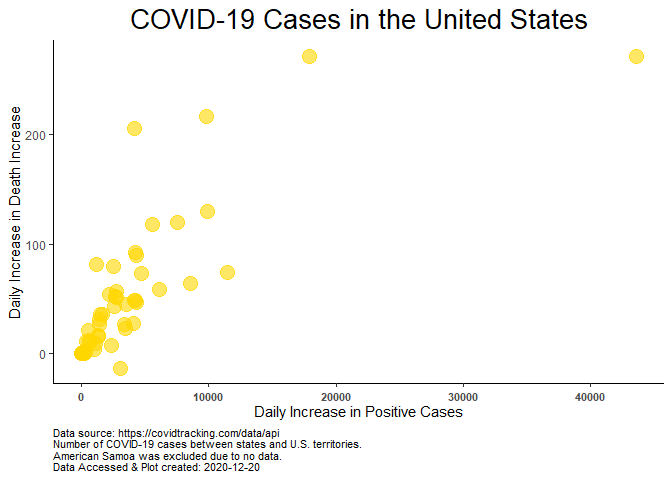
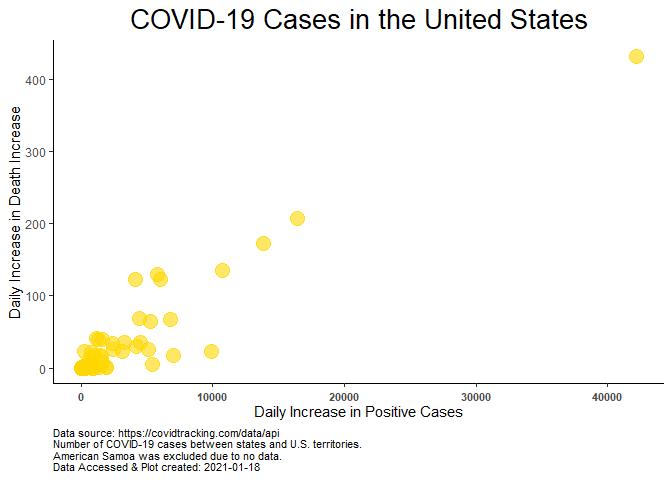
Updated

diff --git a/R/README.md b/R/README.md
@@ -18,57 +18,57 @@ head(data)
 ```
 
     ##       date state positive probableCases negative pending totalTestResultsSource
-    ## 1 20201219    AK    42235            NA  1150883      NA        totalTestsViral
-    ## 2 20201219    AL   319904         59403  1514927      NA  totalTestsPeopleViral
-    ## 3 20201219    AR   200114         30827  1757984      NA        totalTestsViral
-    ## 4 20201219    AS        0            NA     2140      NA        totalTestsViral
-    ## 5 20201219    AZ   448231         18672  2196578      NA        totalTestsViral
-    ## 6 20201219    CA  1807982            NA 27304267      NA        totalTestsViral
+    ## 1 20210117    AK    50296            NA  1354460      NA        totalTestsViral
+    ## 2 20210117    AL   422598         86545  1693435      NA  totalTestsPeopleViral
+    ## 3 20210117    AR   271154         52186  2053730      NA        totalTestsViral
+    ## 4 20210117    AS        0            NA     2140      NA        totalTestsViral
+    ## 5 20210117    AZ   673882         37418  2574357      NA        totalTestsViral
+    ## 6 20210117    CA  2942475            NA 35286140      NA        totalTestsViral
     ##   totalTestResults hospitalizedCurrently hospitalizedCumulative inIcuCurrently
-    ## 1          1193118                   146                    935             NA
-    ## 2          1775428                  2318                  30224             NA
-    ## 3          1927271                  1061                  10487            345
+    ## 1          1404756                    70                   1153             NA
+    ## 2          2029488                  2716                  38763             NA
+    ## 3          2272698                  1271                  12701            423
     ## 4             2140                    NA                     NA             NA
-    ## 5          4563098                  4014                  32676            939
-    ## 6         29112249                 17398                     NA           3620
+    ## 5          6029520                  4773                  47081           1118
+    ## 6         38228615                 21143                     NA           4820
     ##   inIcuCumulative onVentilatorCurrently onVentilatorCumulative recovered
-    ## 1              NA                    13                     NA      7165
-    ## 2            2389                    NA                   1377    183625
-    ## 3              NA                   177                   1136    173832
+    ## 1              NA                     8                     NA      7165
+    ## 2            2484                    NA                   1420    221961
+    ## 3              NA                   221                   1348    241926
     ## 4              NA                    NA                     NA        NA
-    ## 5              NA                   612                     NA     66132
+    ## 5              NA                   800                     NA     91604
     ## 6              NA                    NA                     NA        NA
-    ##   dataQualityGrade     lastUpdateEt         dateModified checkTimeEt death
-    ## 1                A 12/19/2020 03:59 2020-12-19T03:59:00Z 12/18 22:59   184
-    ## 2                A 12/19/2020 11:00 2020-12-19T11:00:00Z 12/19 06:00  4389
-    ## 3               A+ 12/19/2020 00:00 2020-12-19T00:00:00Z 12/18 19:00  3191
-    ## 4                D  12/1/2020 00:00 2020-12-01T00:00:00Z 11/30 19:00     0
-    ## 5               A+ 12/19/2020 00:00 2020-12-19T00:00:00Z 12/18 19:00  7937
-    ## 6                B 12/19/2020 02:59 2020-12-19T02:59:00Z 12/18 21:59 22432
+    ##   dataQualityGrade    lastUpdateEt         dateModified checkTimeEt death
+    ## 1               A+ 1/17/2021 03:59 2021-01-17T03:59:00Z 01/16 22:59   229
+    ## 2                A 1/17/2021 11:00 2021-01-17T11:00:00Z 01/17 06:00  6120
+    ## 3               A+ 1/17/2021 00:00 2021-01-17T00:00:00Z 01/16 19:00  4311
+    ## 4              N/A 12/1/2020 00:00 2020-12-01T00:00:00Z 11/30 19:00     0
+    ## 5               A+ 1/17/2021 00:00 2021-01-17T00:00:00Z 01/16 19:00 11266
+    ## 6                B 1/17/2021 02:59 2021-01-17T02:59:00Z 01/16 21:59 33392
     ##   hospitalized          dateChecked totalTestsViral positiveTestsViral
-    ## 1          935 2020-12-19T03:59:00Z         1193118              50438
-    ## 2        30224 2020-12-19T11:00:00Z              NA                 NA
-    ## 3        10487 2020-12-19T00:00:00Z         1927271                 NA
+    ## 1         1153 2021-01-17T03:59:00Z         1404756              60195
+    ## 2        38763 2021-01-17T11:00:00Z              NA                 NA
+    ## 3        12701 2021-01-17T00:00:00Z         2272698                 NA
     ## 4           NA 2020-12-01T00:00:00Z            2140                 NA
-    ## 5        32676 2020-12-19T00:00:00Z         4563098                 NA
-    ## 6           NA 2020-12-19T02:59:00Z        29112249                 NA
+    ## 5        47081 2021-01-17T00:00:00Z         6029520                 NA
+    ## 6           NA 2021-01-17T02:59:00Z        38228615                 NA
     ##   negativeTestsViral positiveCasesViral deathConfirmed deathProbable
-    ## 1            1141344                 NA            184            NA
-    ## 2                 NA             260501           3849           540
-    ## 3            1757984             169287           2821           370
+    ## 1            1343030                 NA             NA            NA
+    ## 2                 NA             336053           5098          1022
+    ## 3            2053730             218968           3562           749
     ## 4                 NA                  0             NA            NA
-    ## 5                 NA             429599           7246           691
-    ## 6                 NA            1807982             NA            NA
+    ## 5                 NA             636464          10124          1142
+    ## 6                 NA            2942475             NA            NA
     ##   totalTestEncountersViral totalTestsPeopleViral totalTestsAntibody
     ## 1                       NA                    NA                 NA
-    ## 2                       NA               1775428                 NA
+    ## 2                       NA               2029488                 NA
     ## 3                       NA                    NA                 NA
     ## 4                       NA                    NA                 NA
-    ## 5                       NA               2626177             382700
+    ## 5                       NA               3210821             404864
     ## 6                       NA                    NA                 NA
     ##   positiveTestsAntibody negativeTestsAntibody totalTestsPeopleAntibody
     ## 1                    NA                    NA                       NA
-    ## 2                    NA                    NA                    81525
+    ## 2                    NA                    NA                    97007
     ## 3                    NA                    NA                       NA
     ## 4                    NA                    NA                       NA
     ## 5                    NA                    NA                       NA
@@ -83,31 +83,31 @@ head(data)
     ##   totalTestsPeopleAntigen positiveTestsPeopleAntigen totalTestsAntigen
     ## 1                      NA                         NA                NA
     ## 2                      NA                         NA                NA
-    ## 3                  201974                      37260             21856
+    ## 3                  312662                      61516                NA
     ## 4                      NA                         NA                NA
     ## 5                      NA                         NA                NA
     ## 6                      NA                         NA                NA
     ##   positiveTestsAntigen fips positiveIncrease negativeIncrease    total
-    ## 1                   NA    2              330             7866  1193118
-    ## 2                   NA    1             4221             7723  1834831
-    ## 3                 3300    5             2693            11970  1958098
+    ## 1                   NA    2              279             5828  1404756
+    ## 2                   NA    1             1917             6755  2116033
+    ## 3                   NA    5              976            10573  2324884
     ## 4                   NA   60                0                0     2140
-    ## 5                   NA    4             5560            15385  2644809
-    ## 6                   NA    6            43608           327614 29112249
+    ## 5                   NA    4             6981            11175  3248239
+    ## 6                   NA    6            42229           384131 38228615
     ##   totalTestResultsIncrease   posNeg deathIncrease hospitalizedIncrease
-    ## 1                     8196  1193118             1                    7
-    ## 2                    10678  1834831            93                    0
-    ## 3                    13823  1958098            52                   57
+    ## 1                     6107  1404756             0                    1
+    ## 2                     8365  2116033             1                    0
+    ## 3                    11493  2324884            18                   15
     ## 4                        0     2140             0                    0
-    ## 5                    48550  2644809           118                  383
-    ## 6                   371222 29112249           272                    0
+    ## 5                    60494  3248239            18                  433
+    ## 6                   426360 38228615           432                    0
     ##                                       hash commercialScore negativeRegularScore
-    ## 1 ffa7f1c1f50f93cfb62396ee45bff033ea2ded2a               0                    0
-    ## 2 68df3c8f4569c9d33646ce52eda57b6d22f07f74               0                    0
-    ## 3 b634ee09b4a36af5b40fcde9aeefedb57060e580               0                    0
-    ## 4 724b9522e4f931c541356fbb34c0a0859c78e331               0                    0
-    ## 5 aa76bd1ca231d1d21bd9555510f83a9d7fcaf1d6               0                    0
-    ## 6 469b836dcbf61759b09ccd4f802c2d355e7c71d9               0                    0
+    ## 1 faf064fc716c0c6920e67e6c5542391af0f401a7               0                    0
+    ## 2 76a68fe7e35c1d74478bc169f40223f0a8615cce               0                    0
+    ## 3 d61c6c9deed202f3661cd8b8a487ec8e92618d14               0                    0
+    ## 4 627c446392c701b91de3b2f614c15acbb0c81e52               0                    0
+    ## 5 4f2d06c56ea988e53c70dd2b31e31f59d6d6fb5b               0                    0
+    ## 6 ddcb6ef73ec2f71509678afb75d4237bbf2db6fa               0                    0
     ##   negativeScore positiveScore score grade
     ## 1             0             0     0    NA
     ## 2             0             0     0    NA
@@ -225,17 +225,23 @@ data <- data %>%
   left_join(info)
 ```
 
-# Cases in California example
+# State level trends
 
 ``` r
-ca <- read.csv("https://api.covidtracking.com/v1/states/ca/daily.csv")
+# Make vector of states to read in.
+
+states <- c("ca", "mi", "ny", "fl", "ga", "tx", "wi", "wa", "va", "in")
+
+state_data <- states %>% 
+  purrr::map_df(~read_state(.))
+
 
 
 # make date variables; one for month, year and day
 
 iso <- "([0-9]{4})([0-1][0-9])([0-3][0-9])" # Year-Month-Day to match
 
-dates <- rematch2::re_match(text = ca %>% pull(date), pattern = iso) %>% 
+dates <- rematch2::re_match(text = state_data %>% pull(date), pattern = iso) %>% 
   rename(Year = 1,
          Month = 2,
          Day = 3) %>% 
@@ -243,7 +249,35 @@ dates <- rematch2::re_match(text = ca %>% pull(date), pattern = iso) %>%
 
 
 # Incorporate data to the main data frame.  
+
+state_data <- state_data %>% 
+  left_join(
+    dates %>% 
+      rename(date = `.match`) %>% 
+      mutate(date = as.integer(date)) %>% 
+      select(- `.text`)
+  )
+
+rm(dates)
 ```
+
+Observed positive cases
+
+``` r
+ggplot(data = state_data) +
+  geom_point(aes(x = Date, y = positive, color = state)) +
+  ylab("Daily Positive Cases") +
+  labs(color = "State") +
+  theme_minimal()# +
+```
+
+![](README_files/figure-gfm/unnamed-chunk-9-1.png)<!-- -->
+
+``` r
+  #com_theme
+```
+
+## Visualize
 
 # Global trends
 
@@ -421,36 +455,34 @@ sum_total
     ## # A tibble: 16 x 7
     ##    Country Cases_mean Cases_sd Deaths_mean Deaths_sd Recovered_mean Recovered_sd
     ##    <chr>        <dbl>    <dbl>       <dbl>     <dbl>          <dbl>        <dbl>
-    ##  1 Austra~     27513      457.       893.      30.9          25088.        707. 
-    ##  2 Brazil    5594909.  894725.    158964.   17083.         4979734.     833267. 
-    ##  3 China       91783.    1519.      4742.       6.94         86335.       1053. 
-    ##  4 Cuba         7004.    1655.       126.       9.98          6331.       1566. 
-    ##  5 Ghana       48953.    2810.       314.      12.5          47903        2567. 
-    ##  6 India     7898756. 1757443.    118414.   22020.         7133099.    1994437. 
-    ##  7 Iran       695459.  271243.     36790.   11214.          529736.     174649. 
-    ##  8 Italy      909763.  652590.     44885.   11880.          475521.     355215. 
-    ##  9 Japan      115482    39435.      1862.     381.           98446.      30395. 
-    ## 10 Mexico     940741.  208996.     92477.   15517.          744488.     123637. 
-    ## 11 Niger        1437.     431.        71.9      4.98          1168.         80.2
-    ## 12 Peru       885081.   89076.     34175     2064.          788634.     123325. 
-    ## 13 South ~    738516.   75881.     19396.    2758.          666759.      66532. 
-    ## 14 Spain     1195153.  447725.     38013.    7033.          150376           0  
-    ## 15 UK        1066786.  592767.     50059.    9077.            2967.        685. 
-    ## 16 USA      10381720. 3732201.    239232.   37774.         3080745.    1632778.
+    ##  1 Austra~     27741.     270.        907.      1.64         25436.        246. 
+    ##  2 Brazil    5987001   707950.     166990.  11799.         5349394.     643330. 
+    ##  3 China       92336.    1453.       4744       7.48         86748.        951. 
+    ##  4 Cuba         7711.    1352.        131       5.79          7055.       1141. 
+    ##  5 Ghana       50071.    2499.        320.      6.35         48916.       2286. 
+    ##  6 India     8775374. 1017361.     129411.  12608.         8127450.    1180059. 
+    ##  7 Iran       799964.  249436.      41539.   9428.          594960.     164323. 
+    ##  8 Italy     1152189.  617736.      48529   12394.          577031      379684. 
+    ##  9 Japan      129537.   38221.       1998     367.          109229.      29439. 
+    ## 10 Mexico    1032078.  168454.      99517.  11800.          802449.      88208. 
+    ## 11 Niger        1536.     486.         73       5.61          1192.         84.6
+    ## 12 Peru       929375.   49986.      35190    1241.          851310.      62544. 
+    ## 13 South ~    768402.   68220.      20653.   2076.          694921.      55521. 
+    ## 14 Spain     1396860.  344732.      40822.   6259.          150376           0  
+    ## 15 UK        1325612.  482750.      53274    8851.            3241         609. 
+    ## 16 USA      11794219  3548650.     254360.  33947.         3241888.    1966886.
 
 Per Capita Deaths
 
 ``` r
 ggplot(total) +
-  geom_histogram(aes(capitaDeaths, fill = Country),
+  geom_histogram(aes(capitaDeaths),
                  alpha = 0.8,
                  bins = 50) +
-  geom_density(aes(capitaDeaths, fill = Country),
-                 alpha = 0.8) +
   theme_minimal()
 ```
 
-![](README_files/figure-gfm/unnamed-chunk-12-1.png)<!-- -->
+![](README_files/figure-gfm/unnamed-chunk-13-1.png)<!-- -->
 
 ## Make animation
 
@@ -477,17 +509,16 @@ mutate(country = case_when(
                            Country %in% "USA" ~ "us"))
 
 p <- ggplot() +
-  geom_point(data = total, aes(x = Cases, y = Deaths), alpha = 0.7, size = 7#, #position = position_jitter(h=0.15,w=0.15)
-             ) +
+  geom_point(data = total, aes(x = Cases, y = Deaths), alpha = 0.7, size = 7) +
   geom_flag(data = total, aes(x = Cases,
                 y = Deaths, 
-               country = country)) +
+               country = country), size = 3) +
   ggtitle("COVID Cases & Deaths in Last 100 Days")  +
   scale_color_brewer(palette = "Set3") +
   scale_size(range = c(2, 12)) +
   #scale_x_log10() +
   labs(x = "Cases (Daily Observed Number)", y = "Deaths(Daily Observed Number)") +
-  geom_text(data = total, aes(label = Country, x = Cases, y = Deaths), color = "black") +
+  geom_text(data = total, aes(label = Country, x = Cases, y = Deaths), color = "black", vjust = -1) +
   theme_classic() +
   theme(axis.text= element_text(size = 20, face = "bold"),
         plot.title = element_text(hjust = 0.5, size = 25),
@@ -500,40 +531,26 @@ animation <- p + transition_time(Date) +
 animation
 ```
 
-![](README_files/figure-gfm/unnamed-chunk-13-1.gif)<!-- -->
+![](README_files/figure-gfm/unnamed-chunk-14-1.gif)<!-- -->
+
+``` r
+# anim_save(animation = animation, filename = "anim.gif")
+```
 
 ### Observed cases per Capita (population standardized)
 
 ``` r
-total <- total %>% 
-mutate(country = case_when(
-                          Country %in% "Australia" ~ "au",
-                          Country %in% "Brazil" ~ "br",
-                          Country %in% "China" ~ "cn",
-                          Country %in% "Cuba" ~ "cu",
-                          Country %in% "Ghana" ~ "gh",
-                           Country %in% "India" ~ "io",
-                           Country %in% "Iran" ~ "ir",
-                           Country %in% "Italy" ~ "it",
-                           Country %in% "Japan" ~ "jp",
-                           Country %in% "Mexico" ~ "mx",
-                           Country %in% "Niger" ~ "ne",
-                           Country %in% "Peru" ~ "pe",
-                           Country %in% "South Africa" ~ "sa",
-                           Country %in% "Spain" ~ "es",
-                           Country %in% "UK" ~ "gb",
-                           Country %in% "USA" ~ "us"))
-
 p2 <- ggplot() +
   geom_flag(data = total,
-            aes(x = capitaCases, y = capitaDeaths, country = country)) +
+            aes(x = capitaCases, y = capitaDeaths, country = country),    position = position_jitter(h=0.15,w=0.15), size = 3) +
   ggtitle("COVID Cases & Deaths in Last 100 Days")  +
   scale_color_brewer(palette = "Set3") +
   scale_size(range = c(2, 12)) +
   #scale_x_log10() +
   labs(x = "Cases (Daily Observed Number per Capita)", y = "Deaths(Daily Observed Number per Capita)") +
   geom_text(data = total,
-            aes(x = capitaCases, y = capitaDeaths, label = Country)) +
+            aes(x = capitaCases, y = capitaDeaths, label = Country),
+            vjust = -1) +
   theme_classic() +
   theme(axis.text= element_text(size = 20, face = "bold"),
         plot.title = element_text(hjust = 0.5, size = 25),
@@ -543,7 +560,13 @@ p2 <- ggplot() +
 animation2 <- p2 + transition_time(Date) +
   labs(title = "Date: {frame_time}")
 
+animation2 <- animate(animation2, height = 675, width = 1200)
+
 animation2
 ```
 
-![](README_files/figure-gfm/unnamed-chunk-14-1.gif)<!-- -->
+![](README_files/figure-gfm/unnamed-chunk-15-1.gif)<!-- -->
+
+``` r
+#anim_save(animation = animation2, filename = "anim2.gif")
+```
